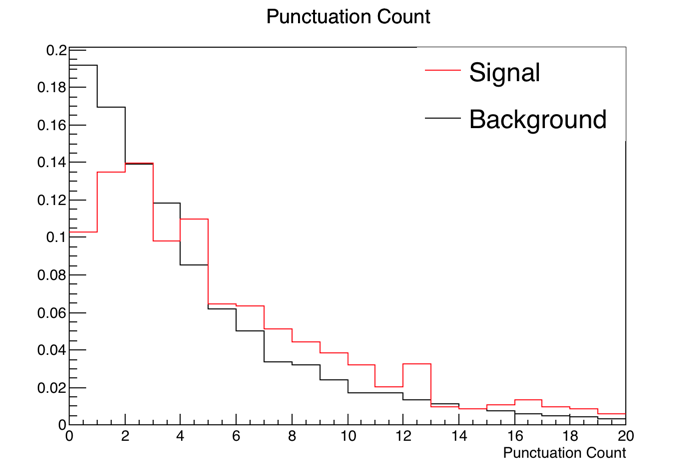
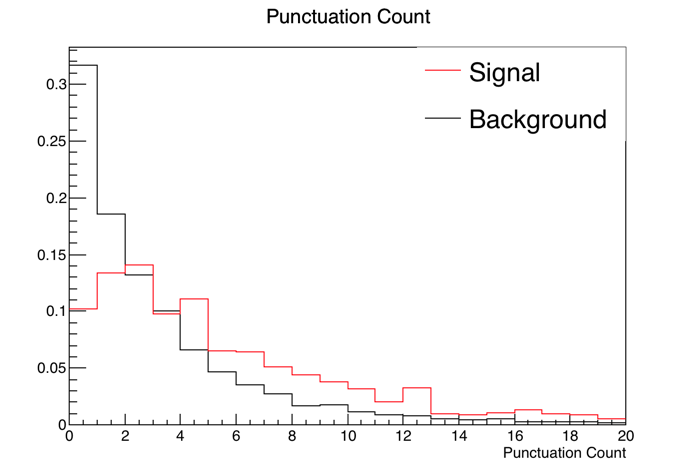
updated plots + cleaned scripts

diff --git a/retrieve_comments.py b/retrieve_comments.py
@@ -7,7 +7,7 @@ from random_video import GenerateVideo
 from gdata.service import RequestError
 
 
-#--------------------------------------
+#---------------------------------------------------------------------
 def comments_generator(client, video_id):
     """
     Returns the list of video comments given the video_ID
@@ -20,7 +20,7 @@ def comments_generator(client, video_id):
     except RequestError:
         return []
 
-    stop_comments = 12000   
+    stop_comments = 15000   
 
     while comment_feed is not None:
         for comment in comment_feed.entry:
@@ -39,9 +39,7 @@ def comments_generator(client, video_id):
 
 
     return comments_to_return
-#--------------------------------------
-
-
+#---------------------------------------------------------------------
 
 
 client = service.YouTubeService()
@@ -57,12 +55,12 @@ legend.SetBorderSize(0)
 legend.AddEntry(h_TriggerCount_SIG, 'Signal', 'l')
 legend.AddEntry(h_TriggerCount_BG, 'Background', 'l')
 
-h_CapsCount_SIG = ROOT.TH1F('Caps Fraction', 'Caps Fraction', 20, 0, 1)
+h_CapsCount_SIG = ROOT.TH1F('Caps Count', 'Caps Count', 30, 0, 30)
 h_CapsCount_SIG.SetLineColor(ROOT.kRed)
-h_CapsCount_BG = ROOT.TH1F('Caps Fraction', 'Caps Fraction', 20, 0, 1)
+h_CapsCount_BG = ROOT.TH1F('Caps Count', 'Caps Count', 30, 0, 30)
 h_CapsCount_BG.SetLineColor(ROOT.kBlack)
-h_CapsCount_SIG.SetStats(False)
-h_CapsCount_SIG.GetXaxis().SetTitle('Caps Fraction')
+h_CapsCount_BG.SetStats(False)
+h_CapsCount_BG.GetXaxis().SetTitle('Caps Count')
 
 h_PunctCount_SIG = ROOT.TH1F('Punctuation Count', 'Punctuation Count', 20, 0, 20)
 h_PunctCount_SIG.SetLineColor(ROOT.kRed)
@@ -83,7 +81,7 @@ count = lambda l1, l2: len(list(filter(lambda c: c in l2, l1)))
 bg_comments = []
 ncomments = 0
 
-while ncomments < 12000:
+while ncomments < 15000:
     BG_VIDEO_ID = GenerateVideo()
     if not BG_VIDEO_ID: continue
     bg_comments += comments_generator(client, BG_VIDEO_ID)
@@ -91,22 +89,24 @@ while ncomments < 12000:
     print 'nComments is %i ' % ncomments
 
 
+# Loop through the comments and compute variables
 for comment in bg_comments:
+
+    # Count # of CAPS characters in comment
+    n_caps_letters = sum(1 for l in comment.content.text if l.isupper())
+    h_CapsCount_BG.Fill(n_caps_letters)
+
+    # Count # of punctuation characters in comment
+    n_punct_char = count(comment.content.text, string.punctuation)
+    h_PunctCount_BG.Fill(n_punct_char)
+
+    # Split text string into words
     try:
         words = comment.content.text.split()
     except AttributeError: continue
 
-    trigger_count = 0
-    n_caps_letters = float(sum(1 for l in comment.content.text if l.isupper()))
-    n_tot_letters = float(count(comment.content.text, string.ascii_letters))
-    if n_tot_letters == 0:
-        h_CapsCount_BG.Fill(-1)
-    else:
-        h_CapsCount_BG.Fill(n_caps_letters/n_tot_letters)
-
-    n_punct_char = count(comment.content.text, string.punctuation)
-    h_PunctCount_BG.Fill(n_punct_char)
-    
+    # Count # of trigger words in comment
+    trigger_count = 0    
     for word in words:
         if word.strip(string.punctuation).lower() in trigger_words:
             trigger_count += 1
@@ -120,18 +120,18 @@ SIG_VIDEO_ID = 'gAyncf3DBUQ'
 sig_comments = []
 sig_comments += comments_generator(client, SIG_VIDEO_ID)
 
+# Loop through the signal comments and compute variables
 for comment in sig_comments:
     
-    n_caps_letters = float(sum(1 for l in comment.content.text if l.isupper()))
-    n_tot_letters = float(count(comment.content.text, string.ascii_letters))
-    if n_tot_letters == 0:
-        h_CapsCount_SIG.Fill(-1)
-    else:
-        h_CapsCount_SIG.Fill(n_caps_letters/n_tot_letters)
+    # Count # of CAPS characters in comment
+    n_caps_letters = sum(1 for l in comment.content.text if l.isupper())
+    h_CapsCount_SIG.Fill(n_caps_letters)
 
+    # Count # of punctuation characters in comment
     n_punct_char = count(comment.content.text, string.punctuation)
     h_PunctCount_SIG.Fill(n_punct_char)
 
+    # Count # of trigger words in comment
     trigger_count = 0
     words = comment.content.text.split()
     for word in words:
@@ -140,6 +140,8 @@ for comment in sig_comments:
 
     h_TriggerCount_SIG.Fill(trigger_count)
 
+
+# Draw and print the histograms/canvas
 h_TriggerCount_BG.SetStats(False)
 h_TriggerCount_BG.GetXaxis().SetTitle('Trigger Word Count')
 h_TriggerCount_BG.Scale(1./h_TriggerCount_BG.GetSumOfWeights())
@@ -155,10 +157,10 @@ legend = ROOT.TLegend(0.6,0.7,0.9,0.9)
 legend.SetBorderSize(0)
 legend.AddEntry(h_CapsCount_SIG, 'Signal', 'l')
 legend.AddEntry(h_CapsCount_BG, 'Background', 'l')
-h_CapsCount_SIG.Scale(1./h_CapsCount_SIG.GetSumOfWeights())
-h_CapsCount_SIG.Draw()
 h_CapsCount_BG.Scale(1./h_CapsCount_BG.GetSumOfWeights())
-h_CapsCount_BG.Draw('same')
+h_CapsCount_BG.Draw()
+h_CapsCount_SIG.Scale(1./h_CapsCount_SIG.GetSumOfWeights())
+h_CapsCount_SIG.Draw('same')
 legend.Draw('same')
 canvas.Print('CapsFraction.png')
 canvas.Clear()
@@ -173,126 +175,5 @@ h_PunctCount_SIG.Scale(1./h_PunctCount_SIG.GetSumOfWeights())
 h_PunctCount_SIG.Draw('same')
 legend.Draw('same')
 canvas.Print('PunctuationCount.png')
-
-
-
-
-
-
-
-
-
-
-#--------------------------------------
-#def comments_generator_2(client, video_id):
-#    """
-#    Returns the list of video comments given the video_ID
-#    """
-#    comments_to_return = []
-#    try:
-#        comment_feed = client.GetYouTubeVideoCommentFeed(video_id=video_id)
-#    # if the video has disabled comments:
-#    except RequestError:
-#        return []
-#
-#    while comment_feed is not None:
-#        for comment in comment_feed.entry:
-#            comments_to_return.append(comment)
-#        next_link = comment_feed.GetNextLink()
-#        if next_link is None:
-#             comment_feed = None
-#        else:
-#            try:
-#                comment_feed = client.GetYouTubeVideoCommentFeed(next_link.href)
-#            except RequestError:
-#                comment_feed = None
-#
-#    return comments_to_return
-
-
-
-
-
-
-
-
-#print bg_comments
-
-#BG_words_list = []
-#for comment in comments:
-#    #print comment.content.text
-#    if comment.content.text is None: continue
-#    words = comment.content.text.split()
-#    
-#    BG_words_list += words
-
-#BG_words_list_cleaned = []
-#for word in BG_words_list:
-#    word = word.strip(string.punctuation)
-#    BG_words_list_cleaned.append(word)
-
-#BG_words_list_cleaned.sort()
-#counts = collections.Counter(BG_words_list_cleaned)
-#new_list = sorted(BG_words_list_cleaned, key=counts.get, reverse=True)
-##print new_list
-
-
-
-
-#n_sig_comments = 0
-#n_sig_comments = len(sig_comments)
-#SIG_words_list = []
-#for comment in sig_comments:
-#    if comment.content.text is None: continue
-#    print comment.content.text
-#    words = comment.content.text.split()
-#    SIG_words_list += words
-#
-#SIG_words_list_cleaned = []
-#for word in SIG_words_list:
-#    word = word.strip(string.punctuation)
-#    SIG_words_list_cleaned.append(word)
-#
-#counts_sig = collections.Counter(SIG_words_list_cleaned)
-#new_sig_list = sorted(SIG_words_list_cleaned, key=counts_sig.get, reverse=True)
-##print new_sig_list
-
-
-
-
-
-
-
-
-
-
-
-
-
-
-#    if '\\' in word: continue
-#    else:
-#        BG_words_list_cleaned.append(word)
-#print BG_words_list_cleaned
-
-#print len(comments)
-#sys.exit()
-
-
-
-#for i, comment in enumerate(comments_generator(client, VIDEO_ID)):
-#    ncomments += 1
-#    author_name = comment.author[0].name.text
-#    text = comment.content.text
-#    print '-'*40
-#    #if i > 15: break
-#   # print comment.GetSelfLink()
-#    #print dir(comment.extension_attributes)
-#    print("{}: {}".format(author_name, text))
-    
-
-#print 'Total # of comments: {}'.format(ncomments)
-
-
 
 
